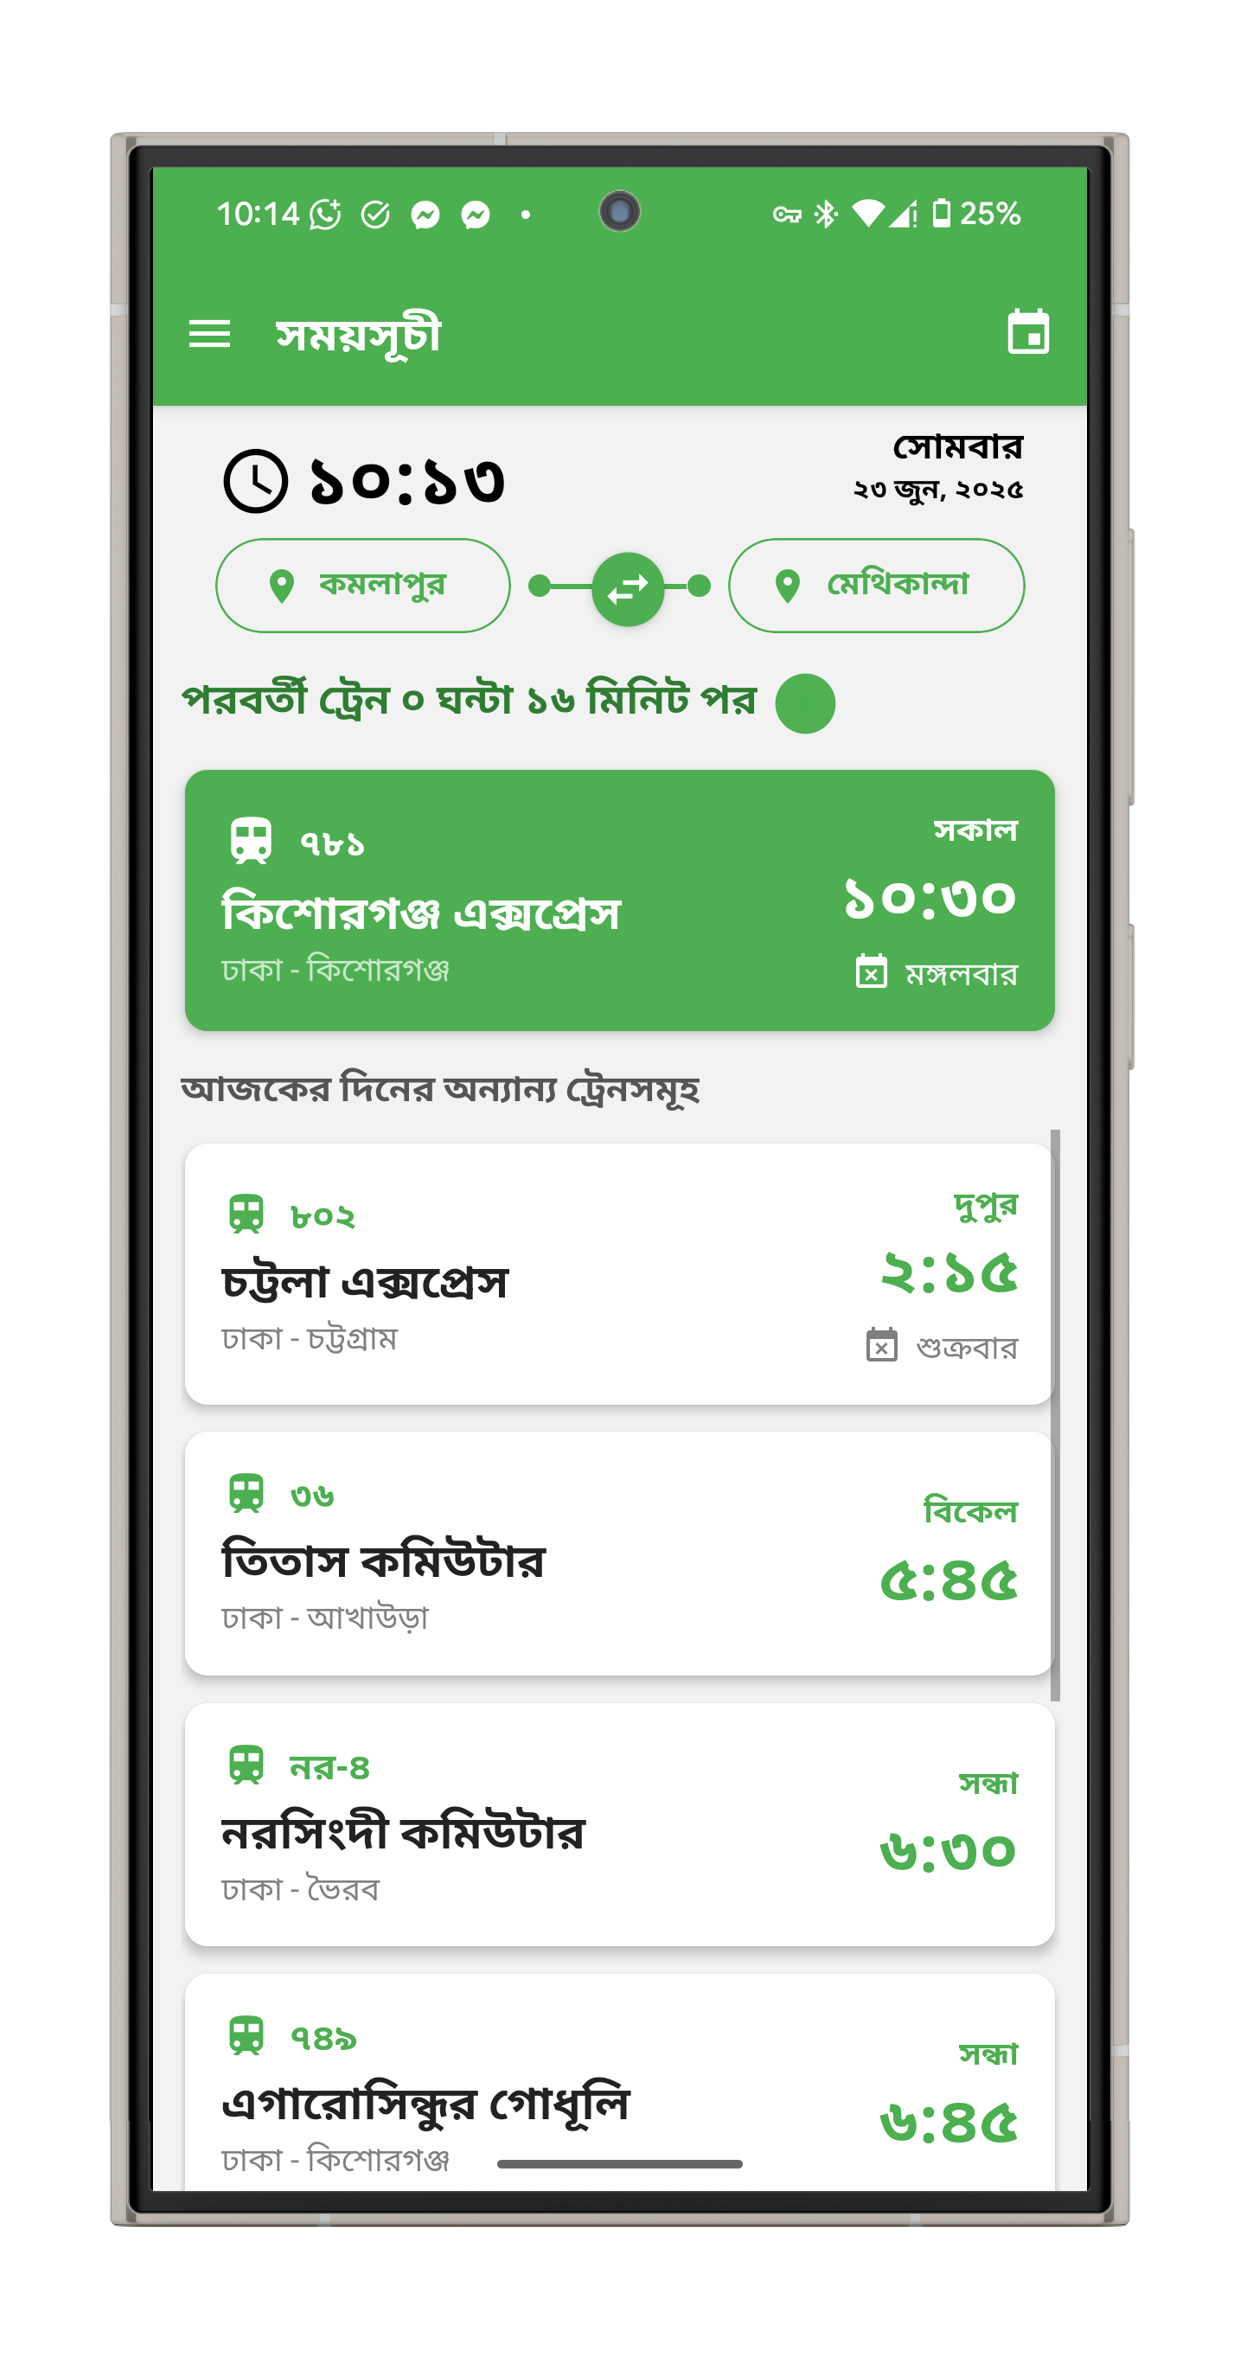
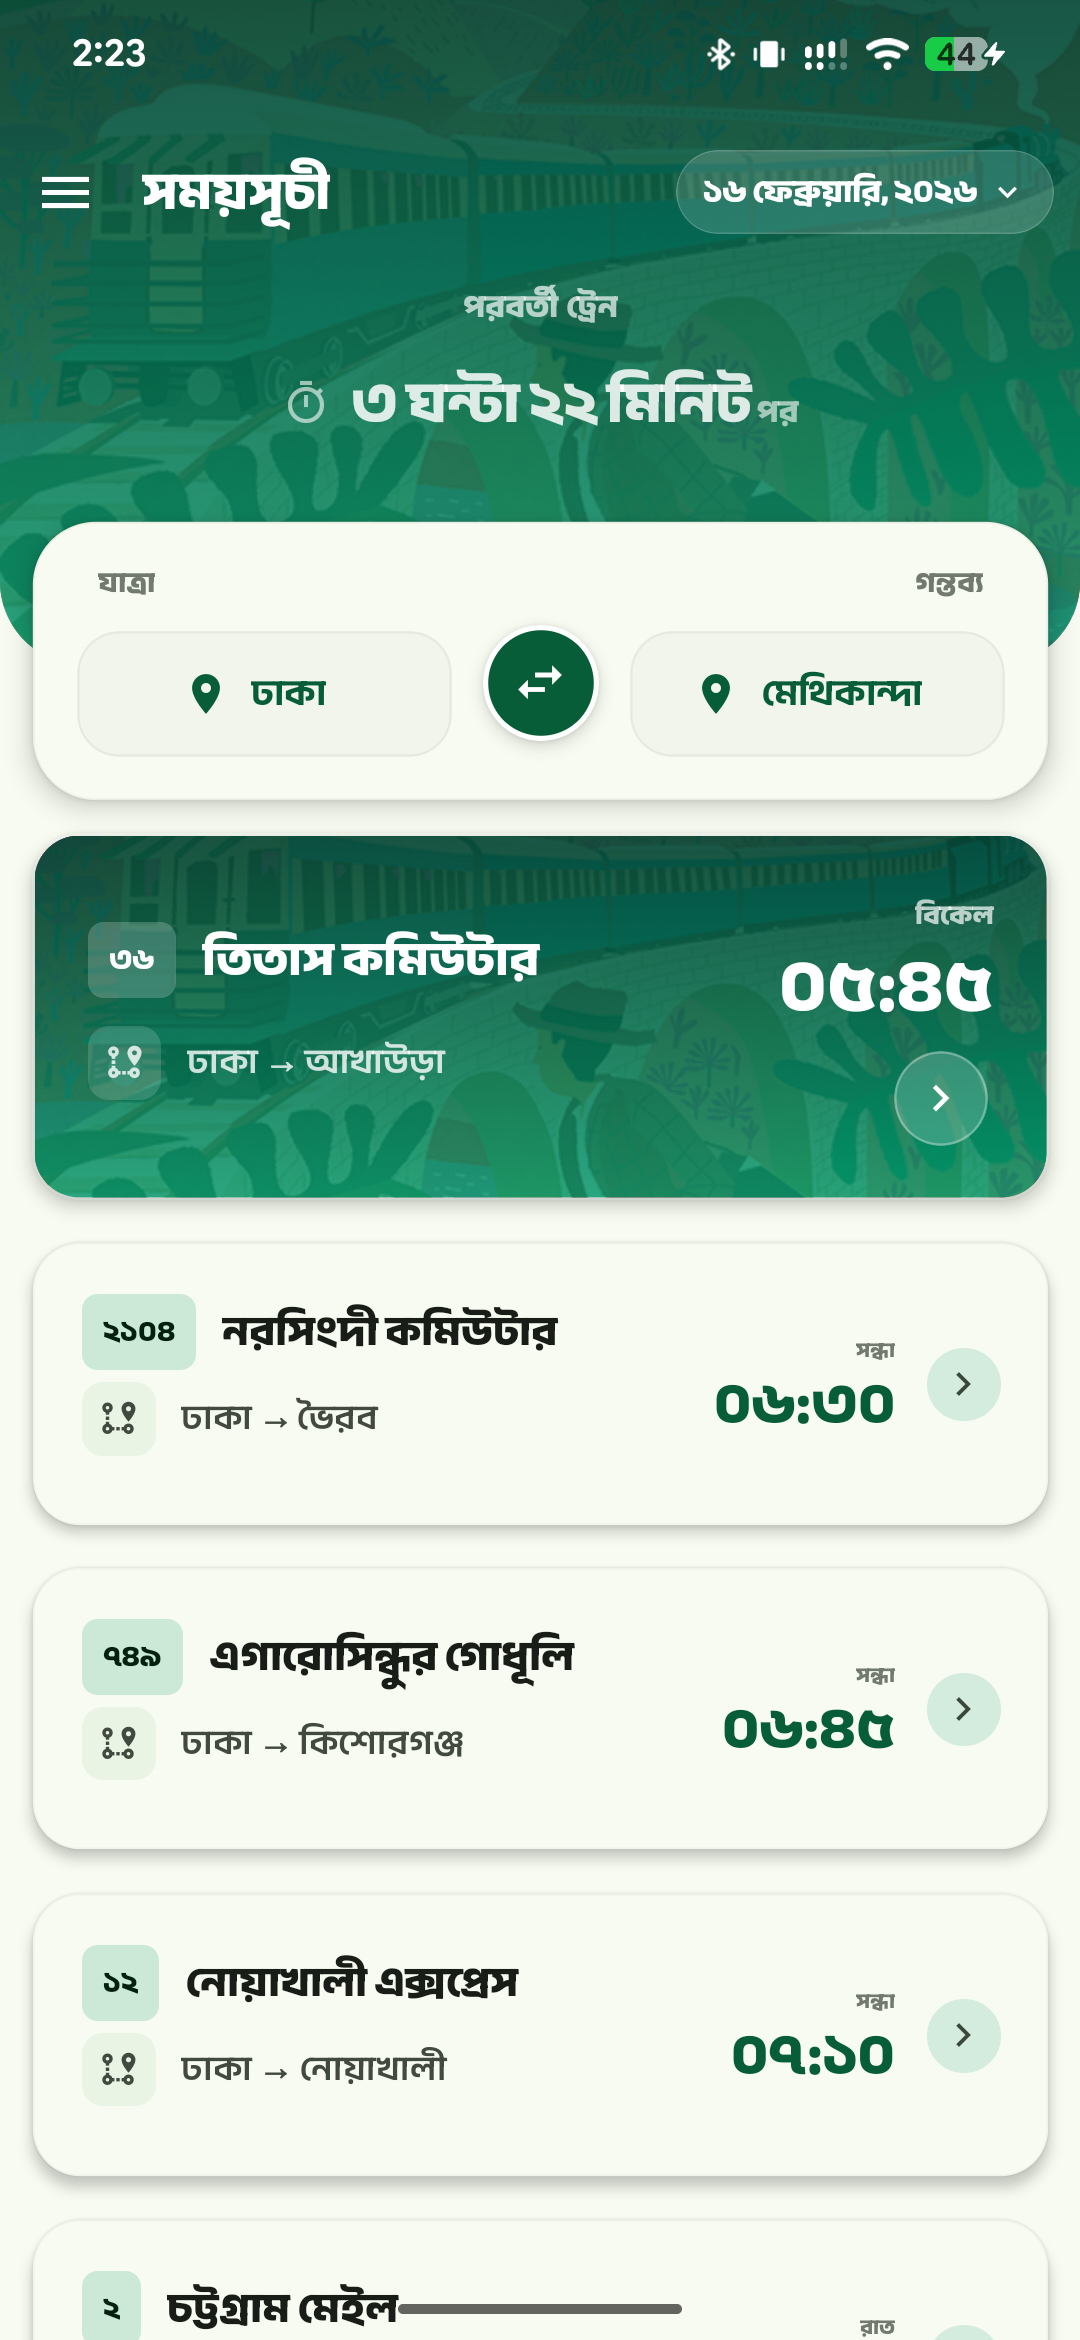
edited readme file

diff --git a/README.md b/README.md
@@ -1,62 +1,70 @@
-# 🚆 Narsingdi Transit – Train Timetable App for Narsingdi District Commuters
+# 🚆 Narsingdi Transit – নরসিংদী ট্রানজিট
+**নরসিংদী জেলার আপনার প্রতিদিনের ট্রেন ভ্রমণ সঙ্গী**
 
-Narsingdi Transit is a clean, minimal, and fully Bangla-language Android app designed for daily train commuters of **Narsingdi district**, Bangladesh.
-
-Whether you're heading to Dhaka, Airport, or coming home, this app helps you check live train schedules, see upcoming trains, and travel with confidence — even **offline**.
-
----
-
-## 📥 Download on Google Play
-
-<a href="https://play.google.com/store/apps/details?id=cc.rafat.narsingditransit">
-  <img src="https://play.google.com/intl/en_us/badges/images/generic/en_badge_web_generic.png" width="120"/>
-</a>
-
+<div align="center">
+  <a href="https://play.google.com/store/apps/details?id=cc.rafat.narsingditransit">
+    <img src="https://play.google.com/intl/en_us/badges/images/generic/en_badge_web_generic.png" width="200"/>
+  </a>
+</div>
 
 ---
 
-## ✨ Features
+### 📖 About | অ্যাপ সম্পর্কে
 
-- ✅ **Daily train timetable** (updates in background)
-- ✅ **Bhairab ⇄ Methikanda ⇄ Narsingdi ⇄ Airport ⇄ Kamalapur** route coverage
-- ✅ **Offline support** – database is cached locally
-- ✅ **E-ticket purchase** for intercity train journey
-- ✅ **Next train countdown** in real-time
-- ✅ Supports **Intercity, Express, Mail & Commuter** trains
-- ✅ **Custom date selection** for planning ahead
-- ✅ Lightweight and **ad-free UI**
+**নরসিংদী ট্রানজিট** – আপনার প্রতিদিনের ট্রেন সঙ্গী। ট্রেনের সময়, off-day বা টিকেট তথ্য নিয়ে আর ঝামেলা নয়। নরসিংদী ট্রানজিট অ্যাপটি বিশেষভাবে নরসিংদী জেলার নিয়মিত ট্রেন যাত্রীদের জন্য তৈরি, যেখানে শুধুমাত্র নরসিংদীর ওপর দিয়ে চলা ট্রেনগুলোর তথ্য দেখানো হয়। এই অ্যাপটি fast, lightweight এবং offline-এও কাজ করে।
+
+**Narsingdi Transit** is your daily train travel companion. Stop worrying about train schedules, off-days, or ticket information. Built specifically for daily commuters of the Narsingdi district, focusing only on trains that run through Narsingdi. Fast, lightweight, and reliable—even offline.
 
 ---
 
-## 📸 Screenshots
+### 📸 Screenshots | স্ক্রিনশট
 
-<p float="left">
+<div align="center">
   <img src="https://raw.githubusercontent.com/ffrafat/narsingdi-transit-app/refs/heads/main/BRANDING/screenshot-1.png" width="250" />
-</p>
-<p float="right">
   <img src="https://raw.githubusercontent.com/ffrafat/narsingdi-transit-app/refs/heads/main/BRANDING/screenshot-2.png" width="250" />
-</p>
+  <img src="https://raw.githubusercontent.com/ffrafat/narsingdi-transit-app/refs/heads/main/BRANDING/screenshot-3.png" width="250" />
+</div>
 
 ---
 
-## 💻 Open Source
+### 🌟 Key Features | প্রধান ফিচার
 
-This project is open source under the [MIT License](LICENSE).  
-Feel free to fork, modify, improve, or contribute back!
-
----
-
-## 🤝 Contribute
-
-If you're a developer interested in helping make public transport more accessible in Bangladesh — **PRs are welcome!**
-
-- Found a bug? Open an [Issue](https://github.com/ffrafat/narsingdi-transit-app/issues)
-- Want to add a new feature or optimize performance? Fork and send a [Pull Request](https://github.com/ffrafat/narsingdi-transit-app/pulls)
+*   📅 **Offline Train Timetable (অফলাইন ট্রেন সময়সূচী):** ইন্টারনেট ছাড়াই ট্রেনের সময় ও off-day দেখুন।
+*   🎫 **Railway E-Ticket Hub (রেলওয়ে ই-টিকেট হাব):** অ্যাপের ভেতর থেকেই টিকেট কেনা, history দেখা এবং e-ticket verify করার সুবিধা।
+*   🗺 **Station Maps (স্টেশন ম্যাপ):** সহজ ও আধুনিক ম্যাপ দিয়ে স্টেশন নেভিগেশন।
+*   🎨 **Dynamic Themes (ডাইনামিক থিম):** থিম দিয়ে অ্যাপ কাস্টমাইজ করুন।
+*   🔗 **Important Links (গুরুত্বপূর্ণ লিংক):** প্রয়োজনীয় রেলওয়ে ও ট্রাভেল সংক্রান্ত লিংক এক জায়গায়।
+*   💎 **Premium Emerald Design (প্রিমিয়াম Emerald ডিজাইন):** পরিষ্কার ও সুন্দর UI, Anek Bangla ফন্টে আরামদায়ক পড়ার অভিজ্ঞতা।
 
 ---
 
-### 👤 Developed by [Faisal F Rafat](https://github.com/ffrafat)
+### 🚉 Why Narsingdi Transit? | কেন নরসিংদী ট্রানজিট?
+
+*   🚀 **Fast & Lightweight:** Smooth performance on all devices. (ফাস্ট ও লাইটওয়েট)
+*   🛡 **Privacy Friendly:** No unnecessary permissions or data use. (প্রাইভেসি ফ্রেন্ডলি)
+*   🌍 **User Friendly:** Clear info in Bangla & English. (সহজ ব্যবহার)
 
 ---
 
-_Narsingdi Transit – made with ❤ for the people of Narsingdi._
+### 📌 Information Sources | তথ্যের উৎস
+
+Information shown is based on publicly available data from:
+*   [Bangladesh Railway](https://www.railway.gov.bd)
+*   [Railway E-Ticket Service](https://eticket.railway.gov.bd)
+
+---
+
+### ⚠ Disclaimer | দ্রষ্টব্য
+
+*   **Bengali:** নরসিংদী ট্রানজিট একটি স্বতন্ত্র ও কমিউনিটি-ভিত্তিক অ্যাপ। এটি বাংলাদেশ রেলওয়ে বা কোনো সরকারি প্রতিষ্ঠানের সাথে সংযুক্ত, অনুমোদিত বা পরিচালিত নয়।
+*   **English:** Narsingdi Transit is an unofficial, community-built app. It is not affiliated with, endorsed by, or connected to Bangladesh Railway or any government entity.
+
+---
+
+### 👨💻 Development
+
+Developed with ❤ by **[Faisal F Rafat](https://github.com/ffrafat)**.  
+This project is open source under the [MIT License](LICENSE).
+
+- Found a bug? [Open an Issue](https://github.com/ffrafat/narsingdi-transit-app/issues)
+- Want to contribute? [Send a Pull Request](https://github.com/ffrafat/narsingdi-transit-app/pulls)
